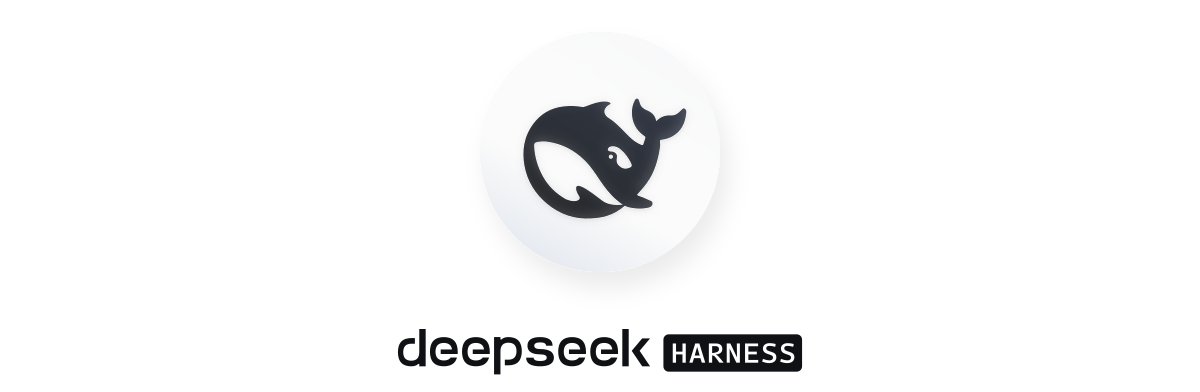
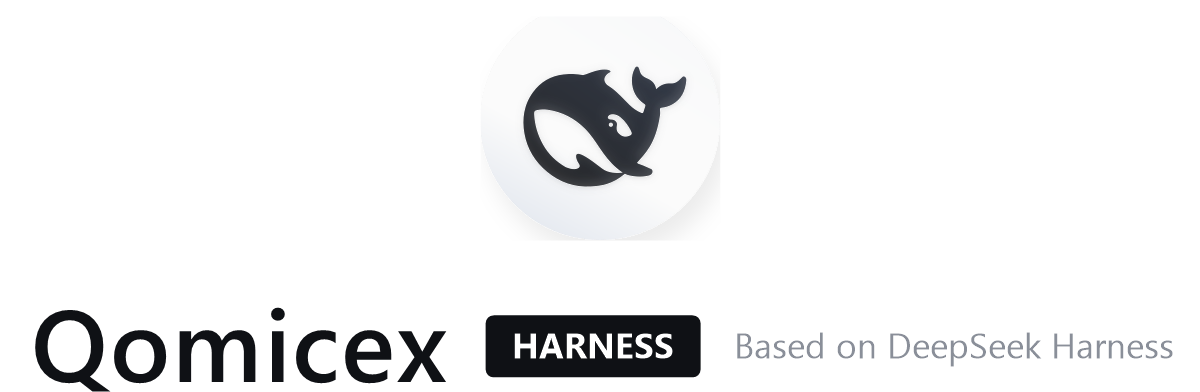
fix(desktop): 安装器品牌重制、跳过 stock 目录页、主进程 bundle 一方依赖
- 品牌图（明/暗 1x/2x）重制为 Qomicex HARNESS + Based on DeepSeek Harness 小字
- nsis allowToChangeInstallationDirectory=false（welcome 页已自带路径 UI，stock 目录页是重复提问），INSTDIR 应用名子目录修正改由 InstallerSanitizeInstallDir 在 InstallerBeforeInstall 执行
- dsh-app-boot/dsh-deepseek-account/dsh-home-paths 从 devDependencies 移入 dependencies（主进程运行期导入却误放 devDeps，收集器只收生产依赖）
- tsdown 对 @deepseek-ai/* noExternal：vendored 清单的 workspace:~ 范围使打包 node_modules 闭包被收集器静默截断（cordis→cosmokit），主进程自包含。本地端到端验证：换新 bundle 后启动无崩溃、欢迎窗正常渲染
- config-catalog.zh.md 补 llm-pi-ai defaultReasoningEffort 条目，双语配对与文档门禁通过

Changed region(s): [[0.0308, 0.7653, 0.9867, 1.0], [0.4317, 0.1837, 0.5858, 0.5816]]

diff --git a/apps/desktop/tsdown.config.ts b/apps/desktop/tsdown.config.ts
@@ -44,6 +44,13 @@ export default defineConfig([
     fixedExtension: false,
     dts: false,
     clean: false,
+    // The first-party workspace deps travel inside the bundle: the app's
+    // packaged node_modules cannot carry their closure, because vendored
+    // manifests declare `workspace:~` ranges that the packer's collector
+    // silently skips (cosmokit via cordis). Bundling the main process keeps
+    // the launch path self-contained; third-party and native deps stay
+    // external for the packer to collect.
+    noExternal: [/^@deepseek-ai\//],
     deps: { neverBundle: ['electron'] },
   },
   ...(['preload-app', 'preload-welcome', 'preload-platform-account', 'preload-mandatory', 'preload-update-dialog'] as const).map(name => ({

diff --git a/.agents/notes/implemented/feature/2026-09-26-desktop-installer-brand-runtime-deps.md b/.agents/notes/implemented/feature/2026-09-26-desktop-installer-brand-runtime-deps.md
@@ -1,0 +1,35 @@
+# Agent Note: Desktop installer branding, directory flow, and runtime dependency closure
+
+Status: implemented
+
+English | [中文](2026-09-26-desktop-installer-brand-runtime-deps.zh.md)
+
+## Problem
+
+The first installer the Desktop workflow produced end to end (release v0.1.7-rc.1.7) exposed three defects that every prior packaging run had stopped short of reaching: the welcome page's 「立即安装」 opened the stock NSIS directory page instead of installing; the installed application crashed on launch with `Cannot find package '@deepseek-ai/dsh-home-paths'`; and the installer brand still read `deepseek HARNESS`.
+
+## Decision
+
+Three independent fixes on the desktop packaging surface:
+
+1. **Directory flow.** The template inserts `MUI_PAGE_DIRECTORY` only behind `allowToChangeInstallationDirectory`; the branded welcome page already carries the path controls, so the config now sets it to `false`. The template's `instFilesPre` sanitizer (which appends the application-name subfolder to `$INSTDIR`) disappears with that branch, so `InstallerSanitizeInstallDir` in `lifecycle.nsh` performs the same rule inside `InstallerBeforeInstall`.
+
+2. **Runtime dependency closure.** The app's main process imports workspace packages at runtime, but they sat in `devDependencies` (the original Electron-packaging commit classified them there) and electron-builder's collector only packs production dependencies: `dsh-app-boot`, `dsh-deepseek-account` and `dsh-home-paths` moved to `dependencies`. That alone is insufficient: the vendored `cordis` manifest declares `@deepseek-ai/cosmokit: workspace:~`, a range the collector silently skips, so the packaged closure stays truncated no matter which direct dependencies are declared. The main process therefore bundles its first-party closure: `tsdown` runs with `noExternal: [/^@deepseek-ai\//]`, and `lib/main.js` (185 KB) becomes self-contained (369 KB). This mirrors the renderer, which already bundles through Vite; third-party and native dependencies stay external for the collector.
+
+3. **Brand.** The installer brand images (light and dark, 1x and 2x) are regenerated with the whale mark lifted from the previous artwork and the wordmark re-set as `Qomicex HARNESS` plus a gray `Based on DeepSeek Harness` line beside it.
+
+## Consequences
+
+The packaged app's `node_modules` shrinks to what the renderer and preloads need; the main process no longer resolves first-party packages at runtime. Updates and the offline installer path keep the same behavior: `InstallerSanitizeInstallDir` covers the flow the stock directory page used to handle. The web welcome window still shows the old `deepseek HARNESS` wordmark from `renderer/assets/welcome-brand.svg` — the same asset family, re-authored as a follow-up.
+
+## Alternatives considered
+
+- **Leaving the stock directory page and removing the welcome page's inline path controls** — abandons the branded single-page install flow the pages were built for.
+- **Declaring the missing workspace packages (cosmokit and friends) one by one in `dependencies`** — the truncation is systemic (`workspace:~` ranges are unresolvable for the collector), so each launch would surface the next gap.
+- **Staging the app's closure through `prepare:dsh`-style manifest rewriting** — reuses the runtime tree's machinery but adds a second staging path for a closure the bundle can simply carry.
+
+## Verification
+
+- Local end-to-end: the packaged asar's `lib/` swapped for the fresh bundle launched `Qomicex Harness.exe` with no main-process crash; the welcome window rendered with the login and API-key actions. Before the bundle change the same copy crashed on `cosmokit`.
+- `verify-package-dependencies` passes with the moved sections; `tsc -b apps/desktop` and the app suite (1160 tests) pass.
+- `pnpm run package:desktop:win:x64:unsigned` blocked by the sandbox network (runtime download fetch), deferred to the workflow run.

diff --git a/.agents/notes/implemented/feature/2026-09-26-desktop-installer-brand-runtime-deps.zh.md b/.agents/notes/implemented/feature/2026-09-26-desktop-installer-brand-runtime-deps.zh.md
@@ -1,0 +1,35 @@
+# Agent Note: Desktop 安装器品牌、目录流程与运行期依赖闭包
+
+Status: implemented
+
+[English](2026-09-26-desktop-installer-brand-runtime-deps.md) | 中文
+
+## 问题
+
+Desktop workflow 第一次端到端产出的安装包（release v0.1.7-rc.1.7）暴露了此前各层打包都未能触及的三个缺陷：欢迎页点击「立即安装」后进入 NSIS stock 目录选择页而非直接安装；安装完成后启动即崩溃（`Cannot find package '@deepseek-ai/dsh-home-paths'`）；安装包品牌字仍为 `deepseek HARNESS`。
+
+## 决策
+
+对 desktop 打包面做三个独立修复：
+
+1. **目录流程。** 模板仅在 `allowToChangeInstallationDirectory` 背后插入 `MUI_PAGE_DIRECTORY`；品牌欢迎页已自带路径选择控件，配置改为 `false`。随该分支一起消失的还有模板的 `instFilesPre`（把 `$INSTDIR` 补上应用名子目录的 sanitizer），改由 `lifecycle.nsh` 的 `InstallerSanitizeInstallDir` 在 `InstallerBeforeInstall` 中执行同一规则。
+
+2. **运行期依赖闭包。** 主进程运行期导入 workspace 包，而这些包原先位于 `devDependencies`（Electron 打包初始提交即如此分类），electron-builder 收集器只收生产依赖：`dsh-app-boot`、`dsh-deepseek-account`、`dsh-home-paths` 移入 `dependencies`。仅此不够：vendored `cordis` 清单声明 `@deepseek-ai/cosmokit: workspace:~`，该范围被收集器静默跳过，无论声明哪些直接依赖，打包闭包都是截断的。主进程因此改为 bundle 一方依赖：`tsdown` 增加 `noExternal: [/^@deepseek-ai\//]`，`lib/main.js`（185 KB）自包含（369 KB）。与 renderer 经 Vite bundle 的做法一致；三方与原生依赖仍外联，由收集器打包。
+
+3. **品牌。** 安装器品牌图（明/暗、1x/2x）重新生成：鲸鱼图形自原图提取，字标重排为 `Qomicex HARNESS`，旁置灰色 `Based on DeepSeek Harness` 小字。
+
+## 后果
+
+打包产物的 `node_modules` 收缩到 renderer 与 preload 所需；主进程运行期不再解析一方包。更新与离线安装路径行为不变：`InstallerSanitizeInstallDir` 覆盖了原 stock 目录页处理的流程。Web 欢迎窗仍显示 `renderer/assets/welcome-brand.svg` 中的旧 `deepseek HARNESS` 字标——同一资源族的改造留作后续。
+
+## 考虑过的替代方案
+
+- **保留 stock 目录页并砍掉 welcome 页的内联路径控件**——放弃这些页面原本构建的品牌化单页安装流程。
+- **把缺失的 workspace 包（cosmokit 等）逐个补进 `dependencies`**——截断是系统性的（`workspace:~` 范围对收集器不可解析），每次启动都会暴露下一个缺口。
+- **经 `prepare:dsh` 式清单重写为应用搭建闭包**——复用运行时树的机制，但为一份 bundle 可直接承载的闭包新增第二条 staging 路径。
+
+## 验证
+
+- 本地端到端：把打包 asar 的 `lib/` 换为新 bundle 后启动 `Qomicex Harness.exe`，主进程无崩溃，欢迎窗正常渲染登录与添加 API Key 操作；bundle 化之前同一副本崩于 `cosmokit`。
+- `verify-package-dependencies` 在迁移后的分区下通过；`tsc -b apps/desktop` 与应用测试（1160 个）通过。
+- `pnpm run package:desktop:win:x64:unsigned` 被沙箱网络阻断（运行时下载 fetch），移交 workflow run 验证。

diff --git a/apps/desktop/README.md b/apps/desktop/README.md
@@ -54,6 +54,8 @@ The [thin-wrapper decision](../../.agents/notes/implemented/architecture/2026-09
 
 Electron owns `$DSH_HOME/profiles/desktop`. Its `dependencies` contains packages installed by pnpm; `dsh.profile.bundles` contains the built-in bundles followed by enabled plugins. The signed application supplies dsh, the private Desktop Host, and their production packages from `resources/app.asar/dsh`. Packaged applications select runtime profile resolution without creating package links; development profiles use filesystem links. Both host and plugins execute in the same Electron Node-mode process; Desktop does not enable `--preserve-symlinks`. The CLI cannot boot or mutate this profile.
 
+The Electron shell bundles its own first-party workspace dependencies into `lib/main.js` at build time (tsdown `noExternal` for `@deepseek-ai/*`), so the shell's main process never resolves those packages from the packaged `node_modules`. The packaged closure would otherwise be truncated: vendored manifests declare `workspace:~` ranges, which electron-builder's collector cannot resolve and silently skips (cordis's `@deepseek-ai/cosmokit`). Third-party and native dependencies stay external for the collector, and the renderer keeps its separate Vite bundle.
+
 Native packages that load a library by an explicit path ship whole in the unpacked plane: electron-builder unpacks every native binary, and a package whose load path derives from module resolution — the Cua Driver platform package opens its DLL from the directory of its resolved `package.json` — additionally unpacks the whole package so that directory is real. The Host rewrites each resolved module URL onto its unpacked file when that file exists, so a native library receives a real filesystem path while every packed module keeps reading from the archive.
 
 The application preload exposes boot readiness, fatal startup reporting, native directory selection, the `__DSH_HOST_PATHS__` bridge for composer path references, and the lease-scoped Browser bridge only to `qomicex-app://app` documents. Product documents use the shared authenticated HTTP APIs and receive the Desktop marker, update presentation, and an action that opens native confirmation; they cannot choose artifacts or authorize installation. Plugin management uses the Web application's authenticated HTTP APIs. Electron serves update-dialog documents and assets locally at `qomicex-app://shell/`, independently of Host readiness. Electron exposes no plugin-management IPC or separate management document. No renderer receives filesystem access, raw Electron IPC, a shell, or arbitrary pnpm arguments.

diff --git a/apps/desktop/README.zh.md b/apps/desktop/README.zh.md
@@ -54,6 +54,8 @@ Node 准备内置解释器和 Python 库，无需系统 Python 或 pip。[下载
 
 Electron 拥有 `$DSH_HOME/profiles/desktop`。其 `dependencies` 包含 pnpm 安装的包；`dsh.profile.bundles` 包含内置 bundle，后接已启用插件。签名应用从 `resources/app.asar/dsh` 提供 dsh、私有 Desktop Host 及其生产依赖。打包应用选择 runtime profile 解析，不创建包链接；开发 profile 使用文件系统链接。宿主与插件在同一个 Electron Node 模式进程中执行；Desktop 不启用 `--preserve-symlinks`。CLI 不能启动或修改此 profile。
 
+Electron 壳在构建期将自己的一方 workspace 依赖打入 `lib/main.js`（tsdown 对 `@deepseek-ai/*` 使用 `noExternal`），主进程运行期不从打包的 `node_modules` 解析这些包。否则打包闭包会被截断：vendored 清单声明 `workspace:~` 范围，electron-builder 收集器无法解析并静默跳过（cordis 的 `@deepseek-ai/cosmokit`）。三方与原生依赖保持外联由收集器打包；renderer 继续走独立的 Vite bundle。
+
 按显式路径加载库的原生包整体进入解包平面：electron-builder 会解包每个原生二进制文件，而加载路径由模块解析推导的包——Cua Driver 平台包从解析出的 `package.json` 所在目录打开其 DLL——还会整体解包，使该目录成为真实路径。Host 在每个模块 URL 存在对应解包文件时把它重写到解包文件，从而让原生库拿到真实文件系统路径，同时所有打包模块仍从归档内读取。
 
 应用 preload 只向 `qomicex-app://app` 文档暴露启动就绪、致命启动失败上报、原生目录选择、用于 composer 路径引用的 `__DSH_HOST_PATHS__` 桥接和租约范围内的 Browser 桥接。产品页面还获得 Desktop 标记、更新展示数据和打开原生确认的操作，不能选择安装产物或授权安装。插件管理使用 Web 应用经过认证的 HTTP API；Electron 在 `qomicex-app://shell/` 本地提供更新弹窗文档和资源，不依赖 Host 就绪。Electron 不提供插件管理 IPC 或独立管理页面。

diff --git a/docs/config-catalog.zh.md b/docs/config-catalog.zh.md
@@ -1690,6 +1690,13 @@ export interface PiAiModelProfile {
    * declares the offered levels and their wire spellings.
    */
   reasoningEfforts?: false | PiAiReasoningEfforts
+  /**
+   * The offered level a new session preselects. Absent defers to the route's
+   * `reasoning`; a level the model does not offer is dropped at resolution
+   * rather than refused, so tightening `reasoningEfforts` never leaves a
+   * stranded default behind.
+   */
+  defaultReasoningEffort?: ModelThinkingLevel
   /** pi-ai wire-compatibility switches for this model, winning over the route's per field; one its protocol does not declare is refused. */
   compat?: PiAiCompatProfile
 }
